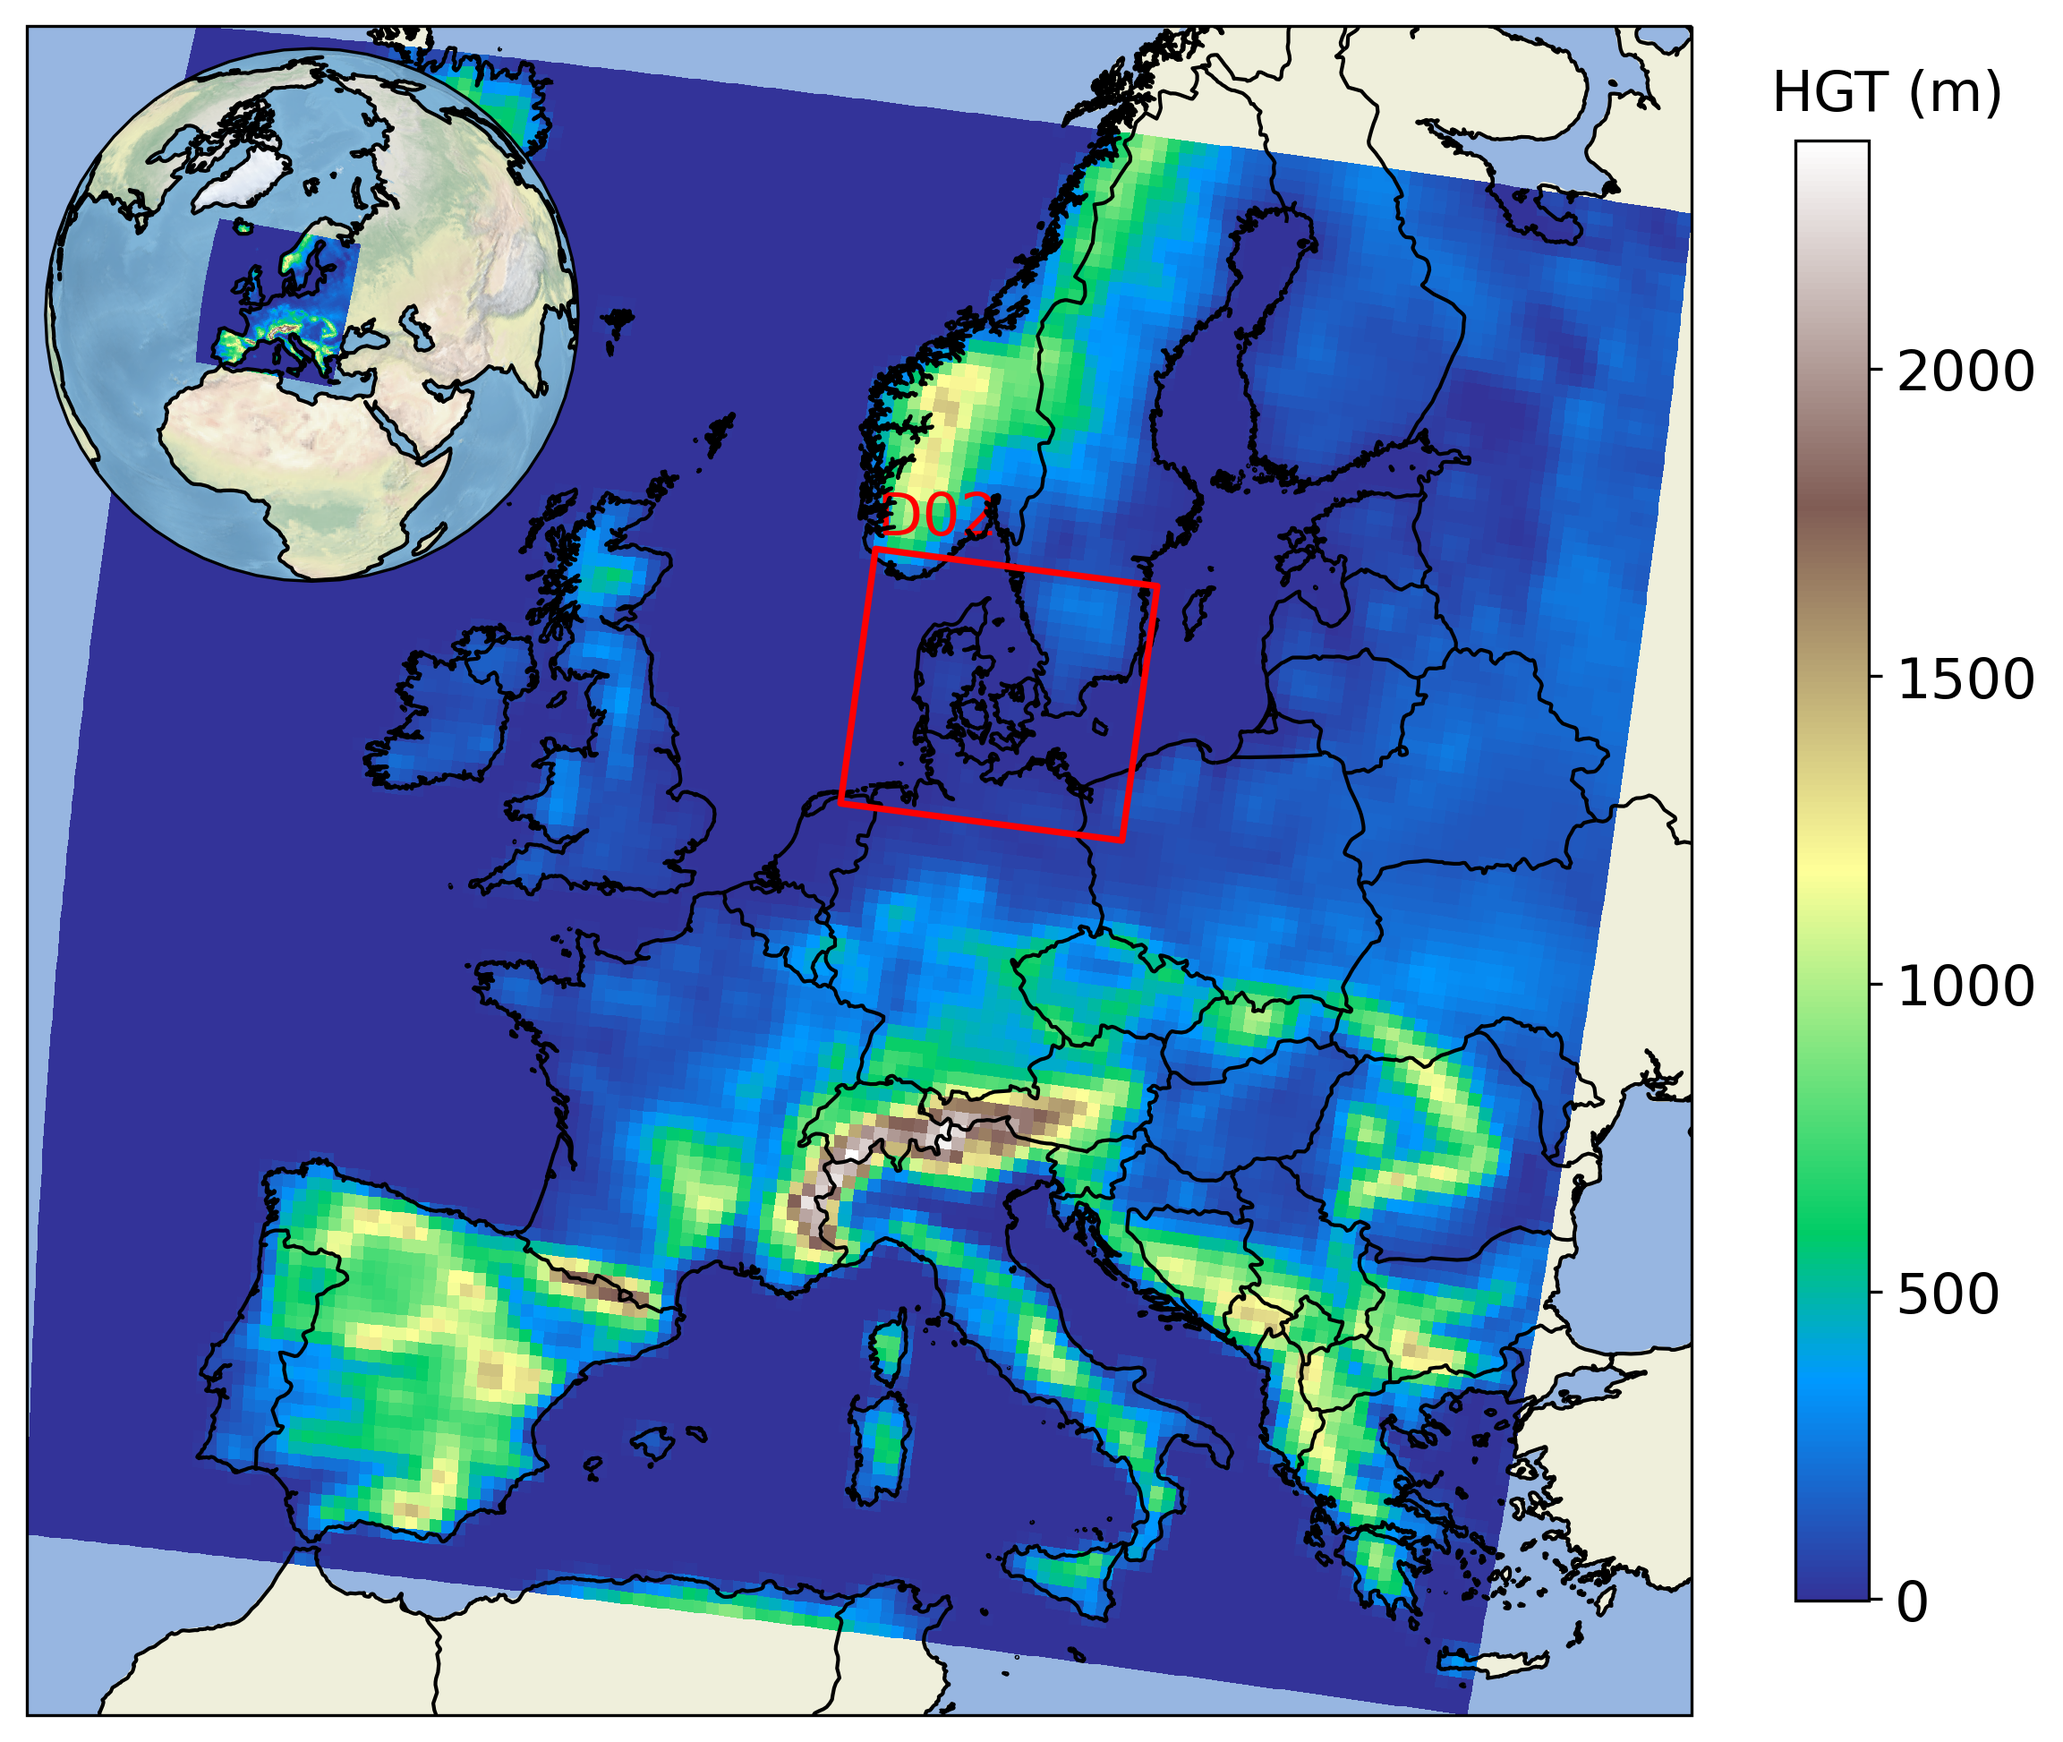
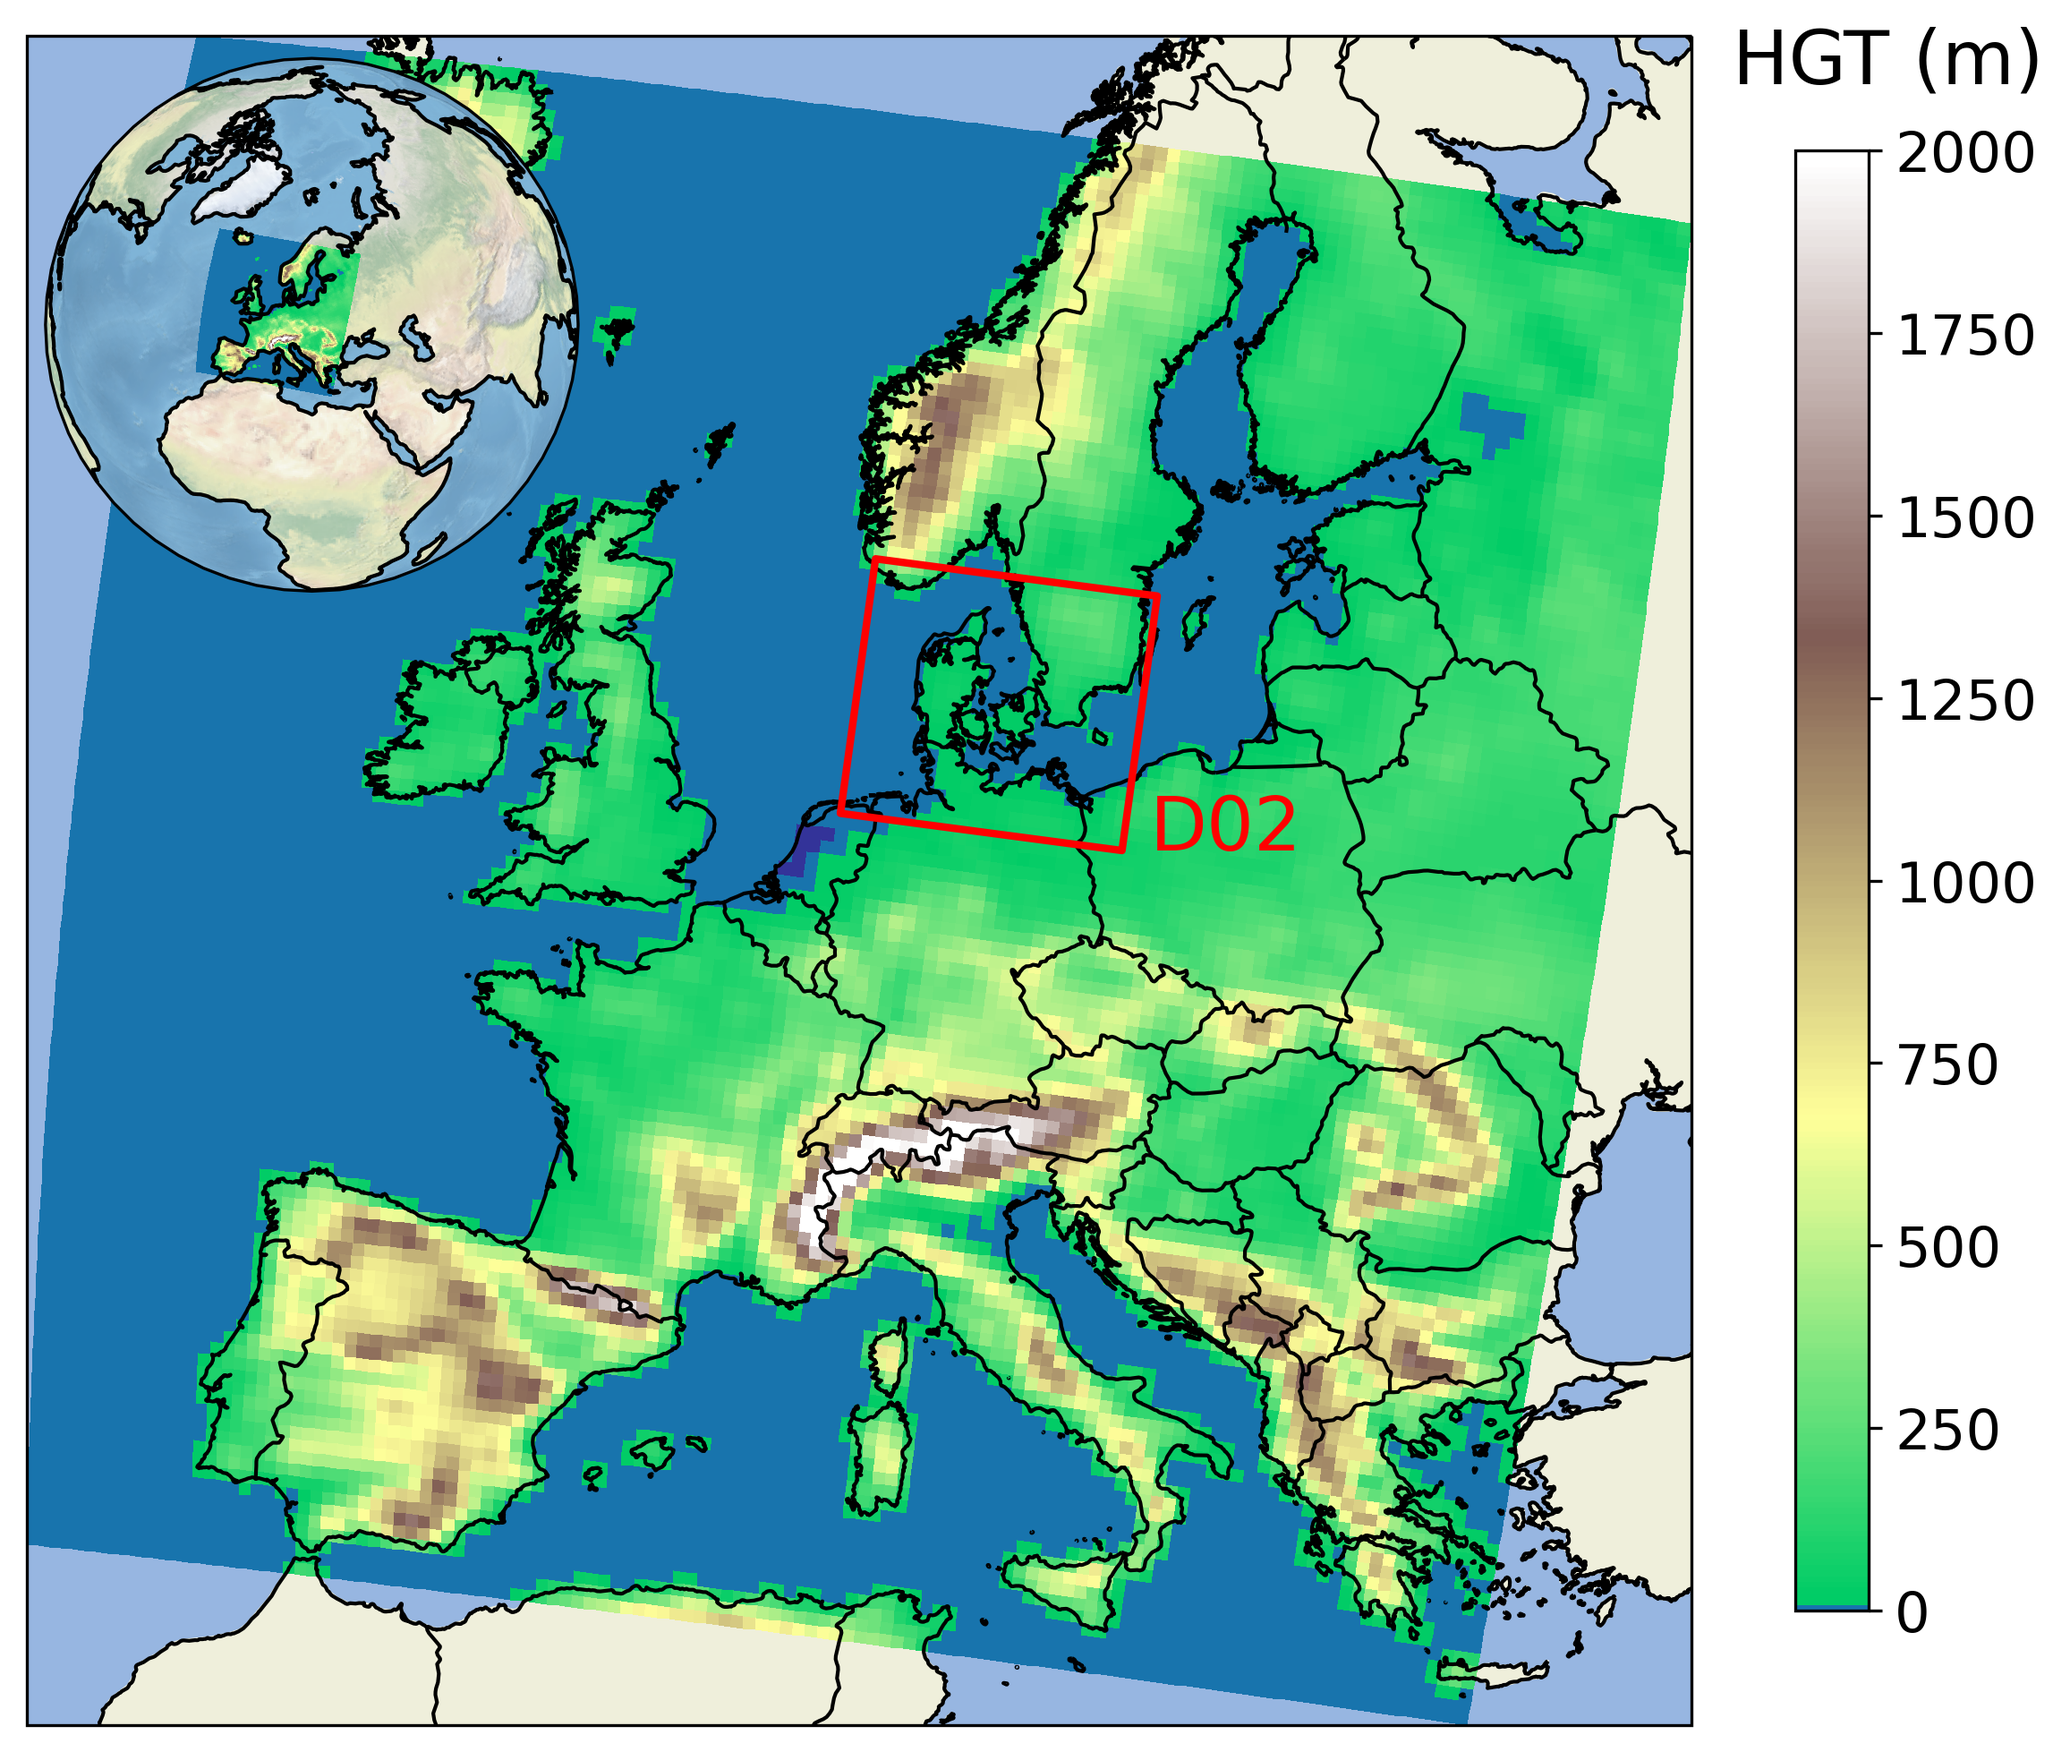
Add files via upload

diff --git a/Domains/DomEU_test.py b/Domains/DomEU_test.py
@@ -1,0 +1,111 @@
+#!/usr/bin/env python3
+# -*- coding: utf-8 -*-
+"""
+Created on Thu Jul 16 12:39:04 2020
+
+@author: angel
+"""
+
+import numpy as np
+import cartopy.crs as ccrs
+import cartopy.feature as cfeature
+import cartopy.mpl.geoaxes
+from netCDF4 import Dataset
+from shapely.geometry.polygon import LinearRing
+import matplotlib.pyplot as plt
+from mpl_toolkits.axes_grid1.inset_locator import inset_axes
+import matplotlib.colors
+
+
+class FixPointNormalize(matplotlib.colors.Normalize):
+    """ 
+    Inspired by https://stackoverflow.com/questions/20144529/shifted-colorbar-matplotlib
+    Subclassing Normalize to obtain a colormap with a fixpoint 
+    somewhere in the middle of the colormap.
+    This may be useful for a `terrain` map, to set the "sea level" 
+    to a color in the blue/turquise range. 
+    """
+    def __init__(self, vmin=None, vmax=None, sealevel=0, col_val = 0.21875, clip=False):
+        # sealevel is the fix point of the colormap (in data units)
+        self.sealevel = sealevel
+        # col_val is the color value in the range [0,1] that should represent the sealevel.
+        self.col_val = col_val
+        matplotlib.colors.Normalize.__init__(self, vmin, vmax, clip)
+
+    def __call__(self, value, clip=None):
+        x, y = [self.vmin, self.sealevel, self.vmax], [0, self.col_val, 1]
+        return np.ma.masked_array(np.interp(value, x, y))
+
+# Combine the lower and upper range of the terrain colormap with a gap in the middle
+# to let the coastline appear more prominently.
+# inspired by https://stackoverflow.com/questions/31051488/combining-two-matplotlib-colormaps
+#colors_undersea = plt.cm.terrain(np.linspace(0, 0.17, 56))
+#colors_land = plt.cm.terrain(np.linspace(0.25, 1, 200))
+colors_undersea = plt.cm.terrain(np.linspace(0, 0.06, 57))
+colors_land = plt.cm.terrain(np.linspace(0.25, 1.0, 200))
+
+# combine them and build a new colormap
+colors = np.vstack((colors_undersea, colors_land))
+cut_terrain_map = matplotlib.colors.LinearSegmentedColormap.from_list('cut_terrain', colors)
+
+norm = FixPointNormalize(sealevel=0,vmax=2000,vmin=0)
+
+wrf_sp_d01 = Dataset('/Users/au710474/Documents/scripts/WRFSP5/Dom/geo_em.d01.nc', mode='r')
+wrf_sp_d02 = Dataset('/Users/au710474/Documents/scripts/WRFSP5/Dom/geo_em.d02.nc', mode='r')
+
+# Loading coordinates
+xlat1 = wrf_sp_d01['XLAT_M'][0]
+xlon1 = wrf_sp_d01['XLONG_M'][0]
+topo1 = wrf_sp_d01['HGT_M'][0]
+landmask1 = wrf_sp_d01['LANDMASK'][0]
+xlat2 = wrf_sp_d02['XLAT_M'][0]
+xlon2 = wrf_sp_d02['XLONG_M'][0]
+topo2 = wrf_sp_d02['HGT_M'][0]
+
+# Defining d02 domain
+corner_lats_2 = wrf_sp_d02.getncattr('corner_lats')
+corner_lons_2 = wrf_sp_d02.getncattr('corner_lons')
+d02_lat = [corner_lats_2[0], corner_lats_2[1], corner_lats_2[2], corner_lats_2[3]]
+d02_lon = [corner_lons_2[0], corner_lons_2[1], corner_lons_2[2], corner_lons_2[3]]
+d02_sqr = LinearRing(list(zip(d02_lon, d02_lat)))
+
+fig = plt.figure(figsize=(10, 9))
+ax = plt.axes(projection = ccrs.Orthographic(central_latitude=49.1, central_longitude=15.1))
+
+ax.add_feature(cfeature.BORDERS)
+ax.coastlines('10m', zorder=15)
+ax.add_feature(cfeature.OCEAN)
+ax.add_feature(cfeature.LAND)
+
+cbax = ax.pcolormesh(xlon1, xlat1, topo1,
+                   transform=ccrs.PlateCarree(),
+                   cmap=cut_terrain_map, norm=norm)
+
+ax.add_geometries([d02_sqr], ccrs.PlateCarree(), facecolor='none', 
+                  edgecolor="red", linewidth=2.0, zorder=20)
+ax.text(xlon2.max() - 0.5, xlat2.min(), "D02", fontsize=20,
+        transform=ccrs.PlateCarree(), color="red")
+axins = inset_axes(ax, width="32%", height="32%", loc="upper left", 
+                   axes_class=cartopy.mpl.geoaxes.GeoAxes, 
+                   axes_kwargs=dict(
+                       map_projection=cartopy.crs.Orthographic(
+                           central_longitude=19.0, central_latitude=50.0)
+                       ))
+axins.stock_img()
+axins.coastlines()
+axins.add_feature(cfeature.OCEAN)
+axins.add_feature(cfeature.LAND)
+
+def add_sub_region_box_1(ax):
+    """ """
+    plt.pcolormesh(xlon1, xlat1, topo1, transform=ccrs.PlateCarree(), cmap=cut_terrain_map, norm=norm)
+    return ax
+
+add_sub_region_box_1(axins)
+
+cb = plt.colorbar(cbax, ax=ax, shrink=0.8)
+cb.ax.tick_params(labelsize=15)
+cb.set_label(label="HGT (m)", labelpad=-40, rotation=0, y=1.085, fontsize=20)
+plt.tick_params(labelsize=22)
+plt.savefig('/Users/au710474/Documents/scripts/WRFSP5/Dom/domains.png', dpi=300,  bbox_inches="tight")
+#plt.show()
